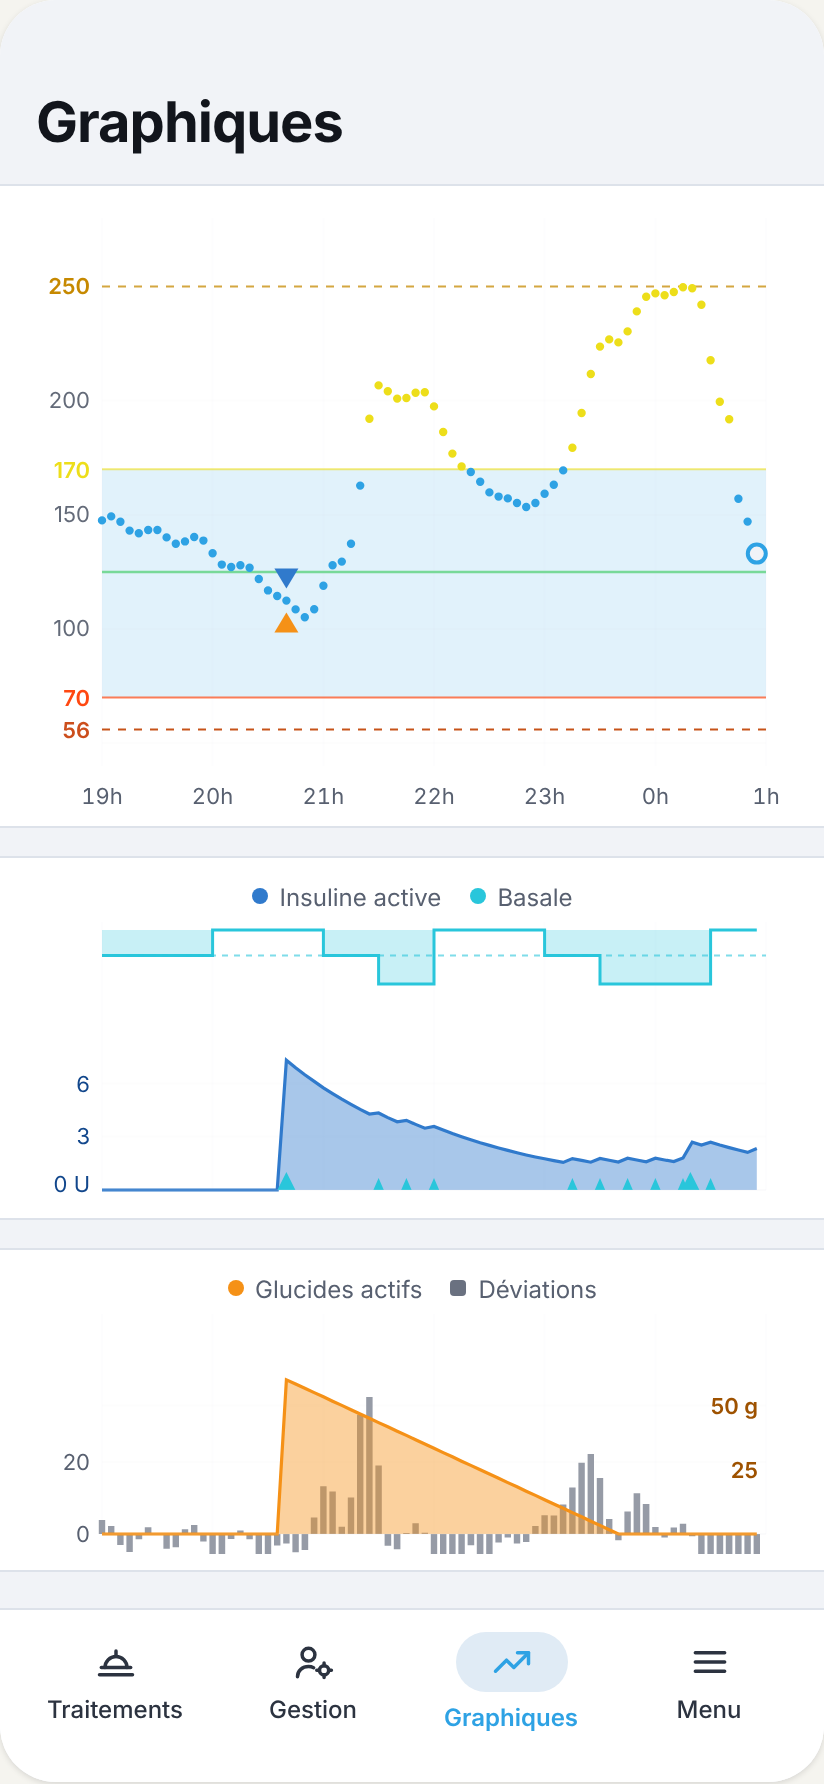
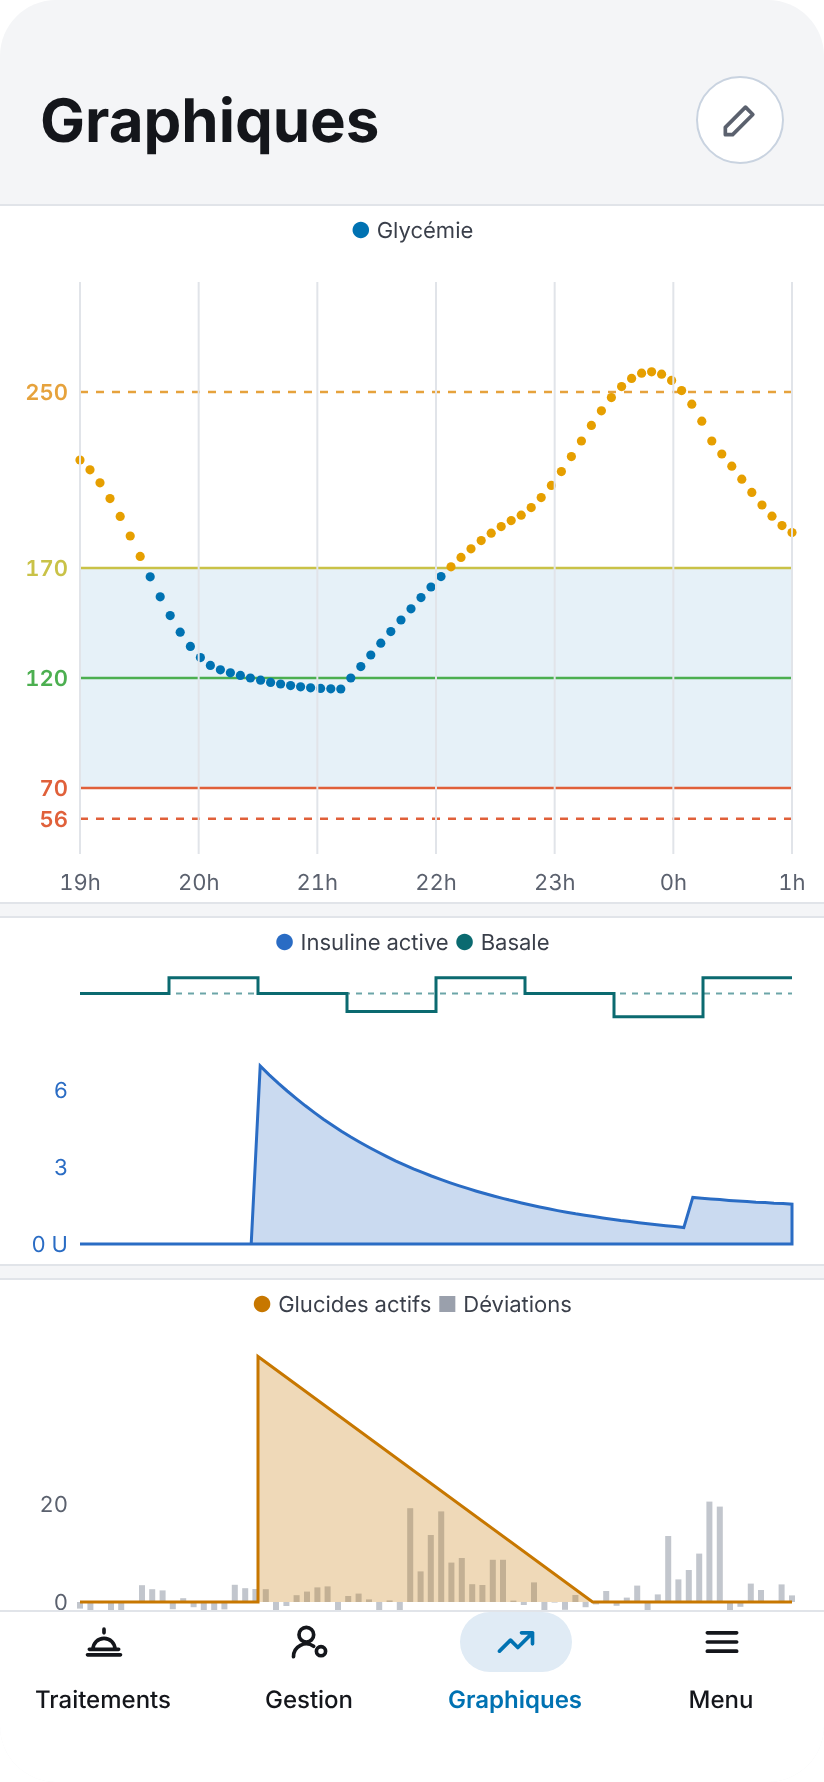
docs(redesign): update the spec and the phase 8 mockup images

diff --git a/docs/redesign/SPEC.md b/docs/redesign/SPEC.md
@@ -471,36 +471,75 @@ target line). The maths is in `RedesignHomeGraphScale.kt`.
 - **Spoken description**: "Glycémie sur les dernières 6 heures, actuellement 133 mg/dL. Appui long pour
   lire une valeur" (or "… Aucune valeur" without readings).
 
-## 4. Page 2 – Graphs (stock 4.0 graphs, moved)
+## 4. Page 2 – Graphs (stock 4.0 graphs, moved; edit mode redesigned in phase 8)
 
-Unchanged by v2 (the mockup draws a simplified page 2; the real page is the stock graph).
+Mockups: `graphs-p8-normal.png`, `graphs-p8-edit.png`, `graphs-p8-menu.png`, `graphs-p8-added.png`.
+The graphs themselves stay the **existing** `GraphsSection` (BG graph with predictions and markers,
+secondary graphs, their axes, scroll, zoom and press-and-hold). Phase 8 changes the page around them,
+their heights and the edit mode UI. Keep upstream changes to defaulted parameters of `GraphsSection`
+(and `BgGraphCompose` for the scale); everything else lives in `redesign/`. If a point below needs more
+than that, stop and tell me instead of doing it.
 
-- Render the **existing** `GraphsSection` unchanged: BG graph with predictions and markers,
-  secondary graphs, their axes, scroll, zoom and press-and-hold.
-- **Edit mode gating**: pencils and "Ajouter un graphique" are hidden by default and shown only in
-  edit mode. Add one parameter to `GraphsSection` (`editMode: Boolean = true`, default keeps stock
-  behaviour); the redesign passes its own state.
-- **Edit mode UI** (redesign side): a centred pill at the top of page 2, 40 dp high:
-  `✎ Mode édition` + filled button `✓ Terminer` (the mockup: button `#56B4E9`, text `#06263A`). Entered
-  from Menu › "Mode édition" (which also opens page 2). Leaving the page or tapping Terminer exits edit
-  mode. In **Simple Mode**, hide "Mode édition" (graphs are preset there).
-- **Layout** (one parameter on `GraphsSection`: `redesignLayout: GraphsRedesignLayout? = null`,
-  null = stock):
-  - 12 dp between the status bar and the top of the graphs, as on Home. **No page title** (the mockup
-    shows a "Graphiques" title: ignore it). 0 dp under the last graph (`bottomPadding`), so the graphs end
-    at the bottom bar (the chart keeps its own few dp).
-  - 12 dp gap between two graphs. The long-press line stays at the same time in every graph.
-  - The first three graphs (BG, IOB, the first secondary one) grow to fill the page height (never shrink,
-    each at most `MAX_GRAPH_HEIGHT_DP`, 250 dp), in the ratio of their saved heights, **also in edit
-    mode**. A fourth graph and the next ones follow below and are reached by scrolling. The fixed part is
-    measured once per layout (rotation, edit mode, a graph added or removed, font size).
-  - No QuickLaunch space at the end.
-  - **No floating buttons on this page**: neither the pump activity button nor the notification button.
+### 4.1 Page layout (normal mode)
+- **Title row** (changed: the page now has a title): "Graphiques", 28 sp bold, 20 dp from the left,
+  under the status bar. On the right (16 dp margin) the **edit button**: round, 44 dp (48 dp touch
+  target), background `#1E2128`, 1 dp border `#3A4660`, pencil icon **grey** `#9AA0AC` (a rare action,
+  it must not draw the eye). Content description "Modifier les graphiques". Hidden in **Simple Mode**.
+- Under the title: the graphs, 12 dp between two graphs, 0 dp under the last one. No QuickLaunch space,
+  **no floating buttons** (neither pump activity nor notifications). The long-press line stays at the
+  same time in every graph.
+- **Legends**: every graph has its legend centred at the top, on its own line, the BG graph included
+  ("● Glycémie"). Same style as the existing secondary graph legends.
 - **Same BG scale as Home** (fixed 40–280 with the adaptive rule of 3.6, same threshold lines and left
-  labels): **wanted (decided)**, but only through existing parameters or **one defaulted parameter** on
-  `BgGraphCompose`. If it needs deeper changes, stop and tell me instead of doing it. Phase 8.
-- *Optional, last*: the mockup draws the graph cards edge to edge (radius 0, 1 dp top/bottom border) like
-  the Home graph. Only if `GraphsSection` already allows it through the `redesignLayout` parameter.
+  labels): wanted, only through existing parameters or one defaulted parameter on `BgGraphCompose`
+  (phase 8c, optional).
+
+### 4.2 Graph heights: Petit / Moyen / Grand
+- Three sizes. **Petit = max(100 dp, (H − 3 × gap) / 4)**, H = height between the title row and the
+  bottom bar, gap = the gap between graphs. **Moyen = 1.5 × Petit, Grand = 2 × Petit.** No maximum.
+  So the page holds 4 units (Petit 1, Moyen 1.5, Grand 2) on every phone; above that the page scrolls.
+  Recomputed on rotation, font size or window change.
+- **Default**: BG Grand, IOB/basal Petit, every other graph Petit (G P P fills the page, like Home).
+- Layouts that fill one page exactly: G G · G P P, P G P, P P G, M M P, M P M, P M M · P P P P. Smaller
+  totals leave empty space at the bottom (**not** filled: the size the user picked is the size shown).
+- **Saved value**: keep the stock saved height per graph and use it as a size code: **100 = Petit,
+  175 = Moyen, 250 = Grand**; any other saved value is rounded to the nearest of the three. The real
+  height is computed on the redesign side, so the saved format and the stock UI are unchanged.
+- Replaces the former rule "the first three graphs grow to fill the page, max 250 dp".
+
+### 4.3 Edit mode
+- **Enter**: the title edit button (from phase 8a; until 8b it opens the current edit mode). It grows into
+  the edit pill (container transform, ≤ 200 ms; a plain cross-fade is fine if the animation is costly).
+  **Menu › "Mode édition" is removed** (section 6, phase 8a).
+- **Edit pill**: floating, centred over the title row, 52 dp high, radius 26, background `#1E2128`,
+  1 dp border `#3A4660`, shadow. Under it the title turns grey (`#3A3E48`). Content, left to right
+  (close on the left, confirm on the right, the Android rule):
+  `(✕)` · "Mode édition" (14 sp, `#C9CED8`) · `(+)` · `(✓)`. Buttons round 44 dp (48 dp touch);
+  ✕ and + on `#2A2E38`, ✓ filled `#56B4E9` with icon `#06121B`. No red (red is for delete).
+  Content descriptions: "Annuler", "Ajouter un graphique", "Terminer".
+- The **bottom bar stays** as in normal mode (no edit bar).
+- **Changes apply live.** `(✓)` keeps them and leaves edit mode. `(✕)` **and the Back gesture** restore
+  the graphs as they were when edit mode started (redesign side snapshot of the graph settings) and
+  leave edit mode. Tapping another bottom bar item = `(✓)` (changes kept).
+- **Edit mode look**: curves and legends at 40 % opacity; touch, zoom, scroll of the time axis and
+  press-and-hold on the graphs are **blocked** (the page itself still scrolls).
+- **Controls on each graph** (all 44 dp, 48 dp touch target, background `#1E2128`, border `#3A4660`):
+  - Right side, under the legend line: size control `− Petit +` (label 13 sp, 52 dp wide). `−` is
+    greyed in Petit, `+` greyed in Grand. Content descriptions "Réduire", "Agrandir".
+  - Just below it, right-aligned: the **✎ button** (icon `#56B4E9`), content description
+    "Options du graphique". It opens the graph menu, same content as the stock menus today:
+    - **BG graph**: Prédictions, Activité (check boxes). Text "Ce graphique ne peut pas être supprimé".
+    - **IOB / basal graph**: Activité.
+    - **Other graphs**: choice of the series (2), the stock selection.
+  - **BG and IOB / basal are fixed**: always first and second, cannot be moved or deleted (no buttons).
+  - **Other graphs**: bottom-left pill with `↑` `↓` and delete (trash icon `#E0603A`). `↑` greyed on the
+    first movable graph (it cannot go above IOB / basal), `↓` greyed on the last. Content descriptions
+    "Monter", "Descendre", "Supprimer le graphique". Delete is undone by `(✕)`, so no confirmation.
+- **Add `(+)`**: the new graph is added **at the bottom, in Petit**; the other graphs keep their size;
+  the page scrolls to it. `(+)` is greyed when the stock maximum number of graphs is reached (if there
+  is none, no limit).
+- Stock pencils and "Ajouter un graphique" of `GraphsSection` stay hidden (`editMode` parameter): the
+  redesign controls above replace them and call the same stock actions.
 
 ## 5. States checklist (Home)
 
@@ -551,9 +590,9 @@ bar is selected (2.3).
    light the dot of the Menu item (a progress, not a problem); the pump and the permissions do.
    The BG source warning is **not** here: it is in the alert slot of the circle row (3.3).
    (The mockup has no "À régler" section and puts Objectifs in the bar: ignore that, Appendix B.)
-4. 2 × 2 grid of large shortcuts (78 dp, radius 16, gap 10): **Paramètres** (existing settings screen),
-   **Mode édition** (section 4; hidden in Simple Mode; the mockup still says "Modifier l'écran"),
-   **Historique** (history browser), **Statistiques**.
+4. One row of 3 large shortcuts (78 dp, radius 16, gap 10): **Paramètres** (existing settings screen),
+   **Historique** (history browser), **Statistiques**. **"Mode édition" is removed** (phase 8a): edit mode
+   is entered from the pencil button of the Graphiques page (4.3).
 5. List "Outils" (rows 52 dp): Historique des traitements, Assistant profil, Maintenance, Assistant de
    configuration, Configuration. Use the **same actions** as the drawer entries
    (`MainDrawer.kt`), and keep any entry the drawer shows that this list misses.
@@ -628,7 +667,7 @@ touches too many upstream files, skip it and tell me.
 
 ## 9. Phases
 
-**État : phases 0 à 5 et 7 faites et validées sur le téléphone. Prochaine : phase 6 (actions des tuiles et Traitements).**
+**État : phases 0 à 7 faites et validées sur le téléphone. Prochaine : phase 8 (alignement du menu et échelle de la page 2).**
 (Old phases 5 "Themes" and 6 "Animations" are now phases 9 and 10.)
 
 Each phase: plan → my approval → code → `./gradlew.bat :app:assembleFullDebug` (or the variant
@@ -664,7 +703,7 @@ new test files → update `UPSTREAM_TOUCHES.md` → stop so I can test on the ph
    - Add Compose previews (or screenshot tests in new files) for: closed loop / suspended / disconnected /
      open loop with a suggestion, temp target, TBR, carbs required, alert slot ×3, notification ×3,
      sensitivity line, largest font.
-6. **Tile actions and Traitements** (3.2.2, 3.2.3, 3.2.4): IOB + insulin sheet, Basale info + temp basal
+6. **Tile actions and Traitements** (3.2.2, 3.2.3, 3.2.4) – faite: IOB + insulin sheet, Basale info + temp basal
    editor sheet with the "Annuler la basale temp." button, carbs entry removed from the Traitements sheet. Upstream touches expected (3 defaulted
    parameters): the insulin dialog (`topInfo`), the temporary basal dialog (`topInfo`),
    `TreatmentBottomSheet` (`showCarbs`). Add the string resources (FR + EN). Test the not-paired
@@ -673,9 +712,20 @@ new test files → update `UPSTREAM_TOUCHES.md` → stop so I can test on the ph
    sensor = time), the inconsistency bug, and the tap on the "Pompe Patch" row that opens the pump menu.
    Can be done before phase 5 if you prefer (it is independent).
    Start with the diagnosis and tell me the cause before coding.
-8. **Menu alignment and page 2 scale** (section 6, section 4): placeholder text, sizes, selected Menu item
-   of the bar; same BG scale on page 2 if it stays minimal. The Settings screen is not touched. Small,
-   last of the structural work.
+8a. **Graphiques page and heights** (4.1, 4.2, section 6): title row with the edit button, legends (BG
+   included), Petit / Moyen / Grand heights with the 100 / 175 / 250 size code (height logic in
+   `redesign/` with unit tests). The title button opens the **current** edit mode for now, and
+   Menu › "Mode édition" is removed (the entry point moves in one go). Also the Menu finishing touches:
+   placeholder text, sizes, selected Menu item of the bar. Low risk, no new upstream touch expected
+   beyond the existing `redesignLayout` parameter.
+8b. **New edit mode** (4.3). **Start with a diagnosis, before coding**: for each action (series menu of
+   each graph, add, delete, **move up / down**, set the size, restore a snapshot for `(✕)`), say whether
+   the stock code already offers it and through which call, and list the upstream touches it would need.
+   Moving a graph may not exist in 4.0: if it needs more than a defaulted parameter or a small public
+   function, stop and tell me. Then: the pill (✕) Mode édition (+) (✓), dimmed and locked graphs,
+   controls on each graph, Back = cancel, new graph at the bottom in Petit.
+8c. **Same BG scale on page 2** (4.1): optional. Only through existing parameters or one defaulted
+   parameter on `BgGraphCompose`; otherwise drop it and tell me. Independent of 8a / 8b.
 9. **Themes** (section 7): light theme, the redesign surfaces (including the v2 tokens), the true black
    option. The glucose palette is done (phase 0): only check its values. Also fix the stock temp basal
    colour of the light theme (`LightElementColors.tempBasal` = `#00FFFF`, light cyan, almost unreadable in
@@ -699,6 +749,9 @@ None at the moment. Ask me if you find one while exploring a phase.
 - Loop and Target slots carry captions in every state, closed loop included ("Fermée").
 - The Settings screen is not touched (no search field added): keep as much of the GitHub 4.0 code as possible.
 - Page 2 uses the same BG scale as Home, only if that stays a minimal change.
+- Graphiques page: title + grey edit button; edit pill (✕) Mode édition (+) (✓); Back = cancel; sizes
+  Petit / Moyen / Grand proportional to the page (min 100 dp, no max), default G P P; BG and IOB / basal
+  fixed; new graphs at the bottom in Petit; Menu › "Mode édition" removed.
 
 ## Mockup files
 
@@ -717,9 +770,12 @@ The notes under each image below are commentary, not UI text.
 | `sheet-basal.png` | Basale tap: info line, "Annuler la basale temp." (only while a TBR runs), stock temp basal editor. Without a TBR the line reads "Basale du profil 0,85 U/h" | 6 |
 | `sheet-treatments.png` | Traitements sheet without the carbs entry (other stock entries unchanged, not drawn) | 6 |
 | `panel-patch.png` | Consumables panel, patch pump: Patch = time, Insuline = reservoir, Capteur = time + (+) | 7 |
-| `menu.png` | Menu with "À régler" (Objectifs 9/10) and the 4b bottom bar, Menu selected | 8 |
-| `graphs.png`, `graphs-edit.png` | Simplified page 2 (the real page is the stock graph; no title) | 8 |
-| `*-light.png` | Light theme of Menu and page 2 | 9 |
+| `menu.png` | Menu with "À régler" (Objectifs 9/10), shortcuts Paramètres / Historique / Statistiques in one row (no "Mode édition"), 4b bottom bar, Menu selected | 8a |
+| `graphs-p8-normal.png` | Graphiques page: title + grey edit button, BG Grand, IOB Petit, COB Petit, legends | 8a |
+| `graphs-p8-edit.png` | Edit mode: pill (✕) Mode édition (+) (✓), dimmed graphs, size control, ✎, ↑ ↓ delete | 8b |
+| `graphs-p8-menu.png` | Edit mode, ✎ menu of the BG graph (Prédictions, Activité, cannot be deleted) | 8b |
+| `graphs-p8-added.png` | A graph added: at the bottom in Petit, page scrolled, others unchanged | 8b |
+| `menu-light.png`, `graphs-light.png`, `graphs-p8-edit-light.png` | Light theme of the Menu, the Graphiques page and its edit mode | 9 |
 
 The gallery of every screen (old iterations included) is the artifact "AAPS redesign – mockups".
 
@@ -761,8 +817,8 @@ larger font the plot shrinks further (min 160 dp), then the page scrolls.
 | Topic | Mockup | Decision (this file) |
 |---|---|---|
 | Bottom bar | Traitements, Gestion, **Objectifs**, Menu | Traitements, [Scènes], Gestion, **Graphiques**, Menu; Objectifs in Menu › "À régler" |
-| Page 2 title | "Graphiques" 28 sp title | no title |
-| Menu shortcut | "Modifier l'écran" | "Mode édition" |
+| Page 2 title | "Graphiques" 28 sp title | "Graphiques" title + grey round edit button (4.1) |
+| Menu shortcut | "Modifier l'écran" | removed; edit mode from the Graphiques page (4.3) |
 | Menu "À régler" | absent | kept (pump, permissions, Objectifs) |
 | Separator "·" | "Profil · 9 min", "Cible · 45 min", "Temp. · 25 min", "Pompe · 30 min", "· 13 requis", sensitivity line | none: a space and the accent colour |
 | Profile value | "Normal" + small "90 %" | "Normal (90%)" (stock name with modifiers) |
